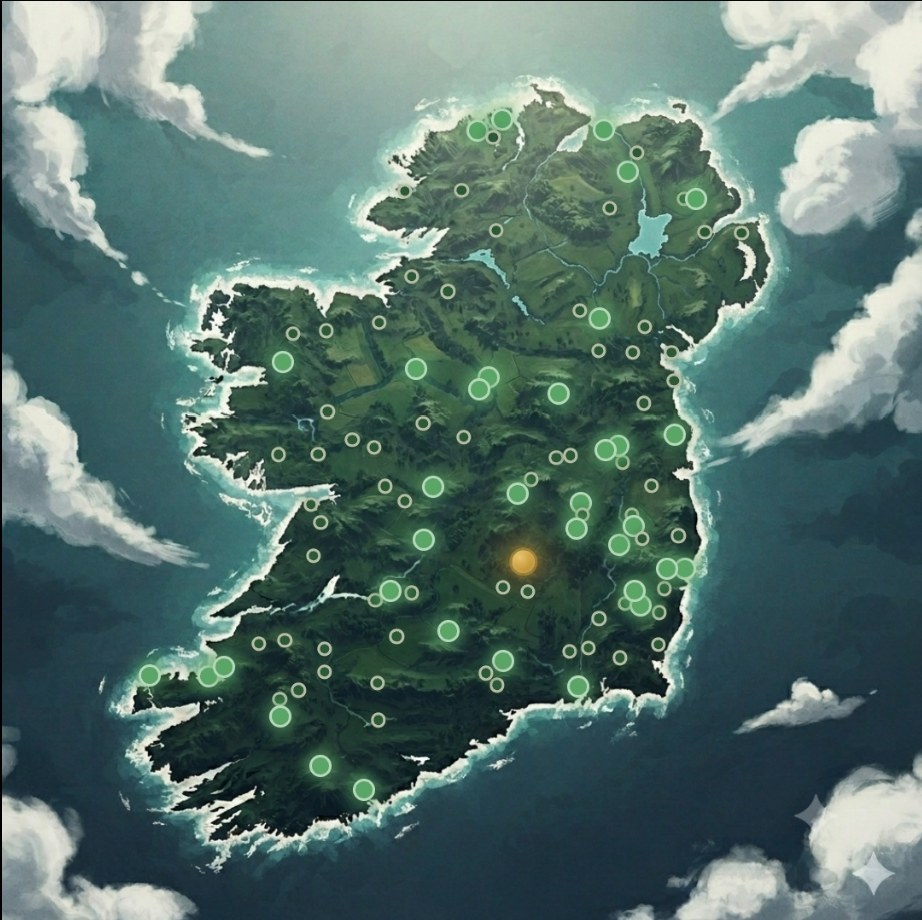
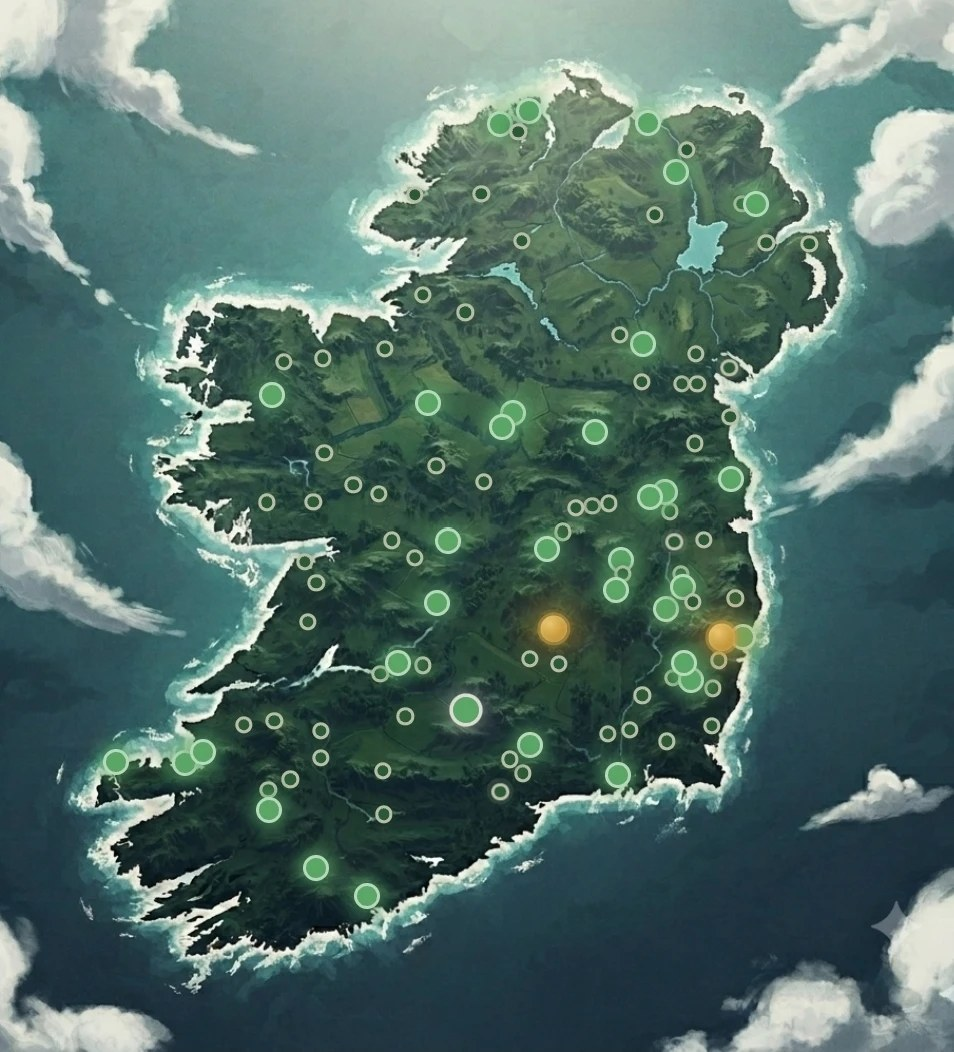
Tara Hill Honey: its own closing map, and "Their produce"
The closing frame is now a screenshot of the map as it stands, with both
gold pins on it, in place of the copy taken from Skehana Hill's folder.
The products heading is read from profile.json, so each page can name that
section for what the producer actually does; Tara Hill's says "Their
produce". Skehana Hill keeps "What they grow".

diff --git a/skehanahill/index.html b/skehanahill/index.html
@@ -347,7 +347,7 @@
     </section>
 
     <section id="products-section" class="hidden">
-      <div class="sec-head"><h2>What they grow</h2><span class="rule"></span></div>
+      <div class="sec-head"><h2 id="products-title">What they grow</h2><span class="rule"></span></div>
       <div class="products" id="products"></div>
     </section>
 
@@ -521,6 +521,7 @@
       // ── what they grow ──
       const products = (pr.products || []).filter(p => p && p.name);
       if (products.length) {
+        if (pr.products_title) $('products-title').textContent = pr.products_title;
         $('products').innerHTML = products.map(p =>
           `<div class="prod"><h3>${esc(p.name)}</h3>${p.note ? `<p>${esc(p.note)}</p>` : ''}${p.season ? `<span class="season">${esc(p.season)}</span>` : ''}</div>`
         ).join('');

diff --git a/tarahillhoney/index.html b/tarahillhoney/index.html
@@ -347,7 +347,7 @@
     </section>
 
     <section id="products-section" class="hidden">
-      <div class="sec-head"><h2>What they grow</h2><span class="rule"></span></div>
+      <div class="sec-head"><h2 id="products-title">What they grow</h2><span class="rule"></span></div>
       <div class="products" id="products"></div>
     </section>
 
@@ -521,6 +521,7 @@
       // ── what they grow ──
       const products = (pr.products || []).filter(p => p && p.name);
       if (products.length) {
+        if (pr.products_title) $('products-title').textContent = pr.products_title;
         $('products').innerHTML = products.map(p =>
           `<div class="prod"><h3>${esc(p.name)}</h3>${p.note ? `<p>${esc(p.note)}</p>` : ''}${p.season ? `<span class="season">${esc(p.season)}</span>` : ''}</div>`
         ).join('');

diff --git a/service-worker.js b/service-worker.js
@@ -1,4 +1,4 @@
-const CACHE = 'provenance-v605';
+const CACHE = 'provenance-v606';
 const ASSETS = [
   '/',
   '/index.html',
